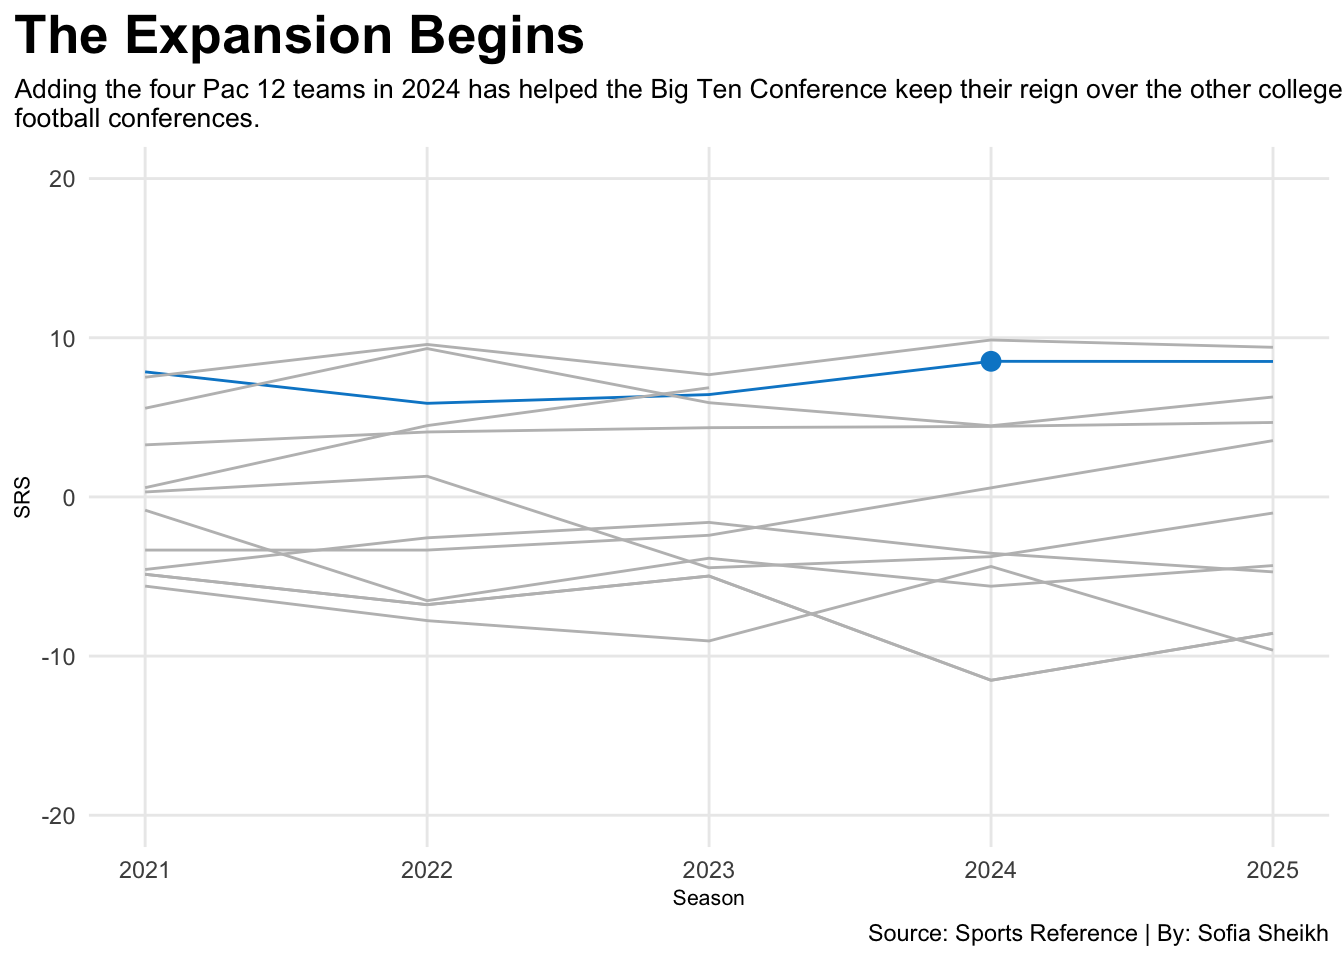
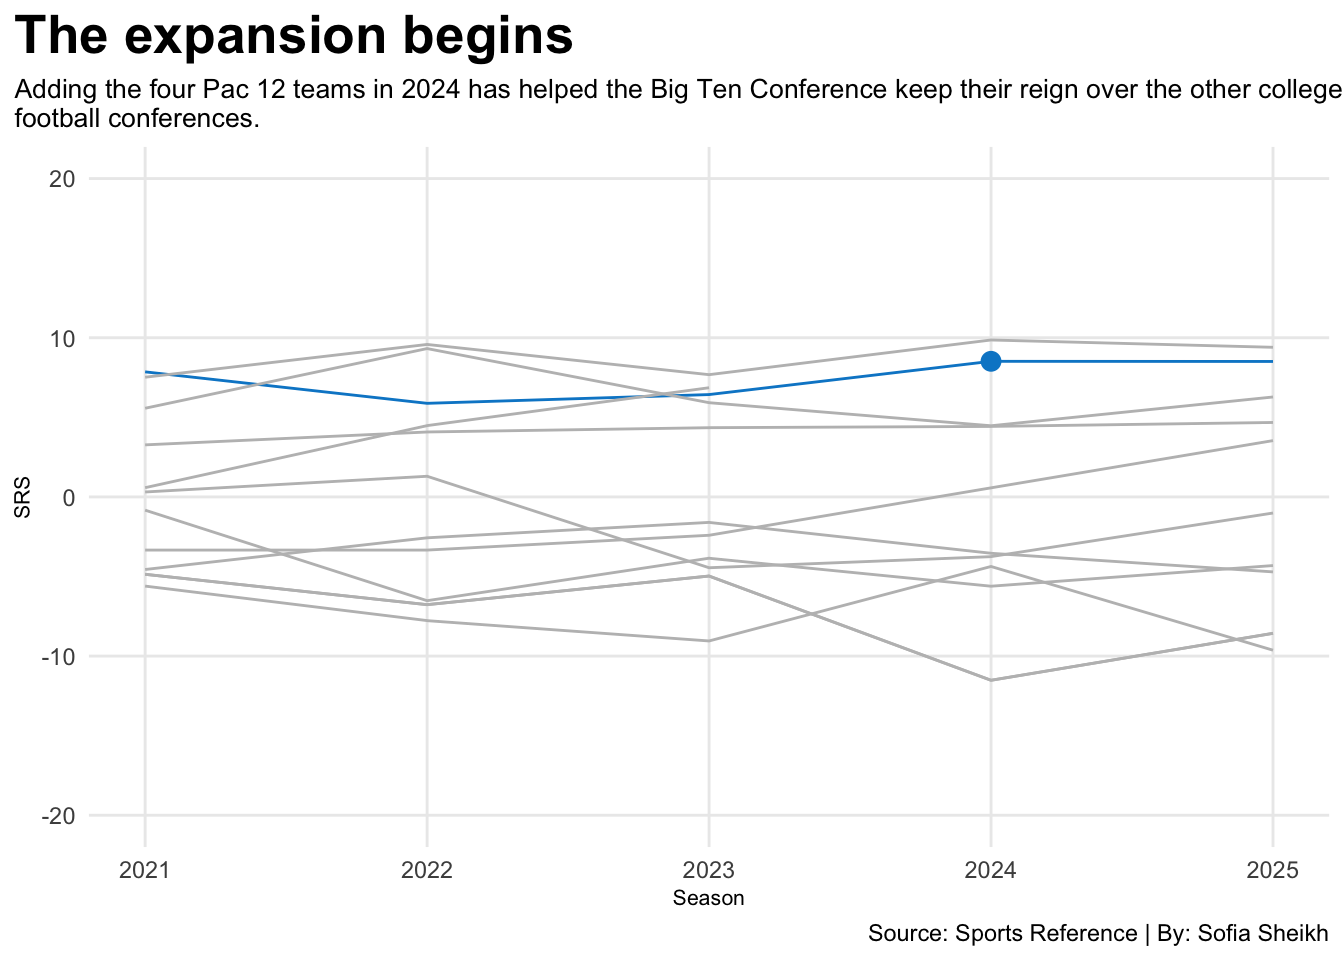
fgfgfbgbf

Changed region(s): [[0.0938, 0.0, 0.4375, 0.0625]]

diff --git a/posts/was.adding.four.teams.a.good.move.for.the.big.ten/index.html b/posts/was.adding.four.teams.a.good.move.for.the.big.ten/index.html
@@ -238,7 +238,7 @@ pre > code.sourceCode > span > a:first-child::before { text-decoration: underlin
 <span id="cb1-45"><a href="#cb1-45" aria-hidden="true" tabindex="-1"></a>  <span class="fu">labs</span>(</span>
 <span id="cb1-46"><a href="#cb1-46" aria-hidden="true" tabindex="-1"></a>    <span class="at">x=</span><span class="st">"Season"</span>, </span>
 <span id="cb1-47"><a href="#cb1-47" aria-hidden="true" tabindex="-1"></a>    <span class="at">y=</span><span class="st">"SRS"</span>, </span>
-<span id="cb1-48"><a href="#cb1-48" aria-hidden="true" tabindex="-1"></a>    <span class="at">title=</span><span class="st">"The Expansion Begins"</span>, </span>
+<span id="cb1-48"><a href="#cb1-48" aria-hidden="true" tabindex="-1"></a>    <span class="at">title=</span><span class="st">"The expansion begins"</span>, </span>
 <span id="cb1-49"><a href="#cb1-49" aria-hidden="true" tabindex="-1"></a>    <span class="at">subtitle=</span><span class="st">"Adding the four Pac 12 teams in 2024 has helped the Big Ten Conference keep their reign over the other college</span><span class="sc">\n</span><span class="st">football conferences."</span>,</span>
 <span id="cb1-50"><a href="#cb1-50" aria-hidden="true" tabindex="-1"></a>    <span class="at">caption=</span><span class="st">"Source: Sports Reference | By: Sofia Sheikh"</span></span>
 <span id="cb1-51"><a href="#cb1-51" aria-hidden="true" tabindex="-1"></a>    ) <span class="sc">+</span></span>
@@ -403,23 +403,23 @@ pre > code.sourceCode > span > a:first-child::before { text-decoration: underlin
 <span id="cb3-74"><a href="#cb3-74" aria-hidden="true" tabindex="-1"></a>    )</span></code></pre></div><button title="Copy to Clipboard" class="code-copy-button"><i class="bi"></i></button></div>
 </details>
 <div class="cell-output-display">
-<div id="rteiqgncan" style="padding-left:0px;padding-right:0px;padding-top:10px;padding-bottom:10px;overflow-x:auto;overflow-y:auto;width:auto;height:auto;">
-<style>#rteiqgncan table {
+<div id="rfkpzcahsd" style="padding-left:0px;padding-right:0px;padding-top:10px;padding-bottom:10px;overflow-x:auto;overflow-y:auto;width:auto;height:auto;">
+<style>#rfkpzcahsd table {
   font-family: system-ui, 'Segoe UI', Roboto, Helvetica, Arial, sans-serif, 'Apple Color Emoji', 'Segoe UI Emoji', 'Segoe UI Symbol', 'Noto Color Emoji';
   -webkit-font-smoothing: antialiased;
   -moz-osx-font-smoothing: grayscale;
 }
 
-#rteiqgncan thead, #rteiqgncan tbody, #rteiqgncan tfoot, #rteiqgncan tr, #rteiqgncan td, #rteiqgncan th {
+#rfkpzcahsd thead, #rfkpzcahsd tbody, #rfkpzcahsd tfoot, #rfkpzcahsd tr, #rfkpzcahsd td, #rfkpzcahsd th {
   border-style: none;
 }
 
-#rteiqgncan p {
+#rfkpzcahsd p {
   margin: 0;
   padding: 0;
 }
 
-#rteiqgncan .gt_table {
+#rfkpzcahsd .gt_table {
   display: table;
   border-collapse: collapse;
   line-height: normal;
@@ -445,12 +445,12 @@ pre > code.sourceCode > span > a:first-child::before { text-decoration: underlin
   border-left-color: #D3D3D3;
 }
 
-#rteiqgncan .gt_caption {
+#rfkpzcahsd .gt_caption {
   padding-top: 4px;
   padding-bottom: 4px;
 }
 
-#rteiqgncan .gt_title {
+#rfkpzcahsd .gt_title {
   color: #333333;
   font-size: 125%;
   font-weight: initial;
@@ -462,7 +462,7 @@ pre > code.sourceCode > span > a:first-child::before { text-decoration: underlin
   border-bottom-width: 0;
 }
 
-#rteiqgncan .gt_subtitle {
+#rfkpzcahsd .gt_subtitle {
   color: #333333;
   font-size: 85%;
   font-weight: initial;
@@ -474,7 +474,7 @@ pre > code.sourceCode > span > a:first-child::before { text-decoration: underlin
   border-top-width: 0;
 }
 
-#rteiqgncan .gt_heading {
+#rfkpzcahsd .gt_heading {
   background-color: #FFFFFF;
   text-align: center;
   border-bottom-color: #FFFFFF;
@@ -486,13 +486,13 @@ pre > code.sourceCode > span > a:first-child::before { text-decoration: underlin
   border-right-color: #D3D3D3;
 }
 
-#rteiqgncan .gt_bottom_border {
+#rfkpzcahsd .gt_bottom_border {
   border-bottom-style: none;
   border-bottom-width: 2px;
   border-bottom-color: #D3D3D3;
 }
 
-#rteiqgncan .gt_col_headings {
+#rfkpzcahsd .gt_col_headings {
   border-top-style: none;
   border-top-width: 2px;
   border-top-color: #D3D3D3;
@@ -507,7 +507,7 @@ pre > code.sourceCode > span > a:first-child::before { text-decoration: underlin
   border-right-color: #D3D3D3;
 }
 
-#rteiqgncan .gt_col_heading {
+#rfkpzcahsd .gt_col_heading {
   color: #333333;
   background-color: #FFFFFF;
   font-size: 100%;
@@ -527,7 +527,7 @@ pre > code.sourceCode > span > a:first-child::before { text-decoration: underlin
   overflow-x: hidden;
 }
 
-#rteiqgncan .gt_column_spanner_outer {
+#rfkpzcahsd .gt_column_spanner_outer {
   color: #333333;
   background-color: #FFFFFF;
   font-size: 100%;
@@ -539,15 +539,15 @@ pre > code.sourceCode > span > a:first-child::before { text-decoration: underlin
   padding-right: 4px;
 }
 
-#rteiqgncan .gt_column_spanner_outer:first-child {
+#rfkpzcahsd .gt_column_spanner_outer:first-child {
   padding-left: 0;
 }
 
-#rteiqgncan .gt_column_spanner_outer:last-child {
+#rfkpzcahsd .gt_column_spanner_outer:last-child {
   padding-right: 0;
 }
 
-#rteiqgncan .gt_column_spanner {
+#rfkpzcahsd .gt_column_spanner {
   border-bottom-style: none;
   border-bottom-width: 2px;
   border-bottom-color: #D3D3D3;
@@ -559,11 +559,11 @@ pre > code.sourceCode > span > a:first-child::before { text-decoration: underlin
   width: 100%;
 }
 
-#rteiqgncan .gt_spanner_row {
+#rfkpzcahsd .gt_spanner_row {
   border-bottom-style: hidden;
 }
 
-#rteiqgncan .gt_group_heading {
+#rfkpzcahsd .gt_group_heading {
   padding-top: 8px;
   padding-bottom: 8px;
   padding-left: 5px;
@@ -589,7 +589,7 @@ pre > code.sourceCode > span > a:first-child::before { text-decoration: underlin
   text-align: left;
 }
 
-#rteiqgncan .gt_empty_group_heading {
+#rfkpzcahsd .gt_empty_group_heading {
   padding: 0.5px;
   color: #333333;
   background-color: #FFFFFF;
@@ -604,15 +604,15 @@ pre > code.sourceCode > span > a:first-child::before { text-decoration: underlin
   vertical-align: middle;
 }
 
-#rteiqgncan .gt_from_md > :first-child {
+#rfkpzcahsd .gt_from_md > :first-child {
   margin-top: 0;
 }
 
-#rteiqgncan .gt_from_md > :last-child {
+#rfkpzcahsd .gt_from_md > :last-child {
   margin-bottom: 0;
 }
 
-#rteiqgncan .gt_row {
+#rfkpzcahsd .gt_row {
   padding-top: 8px;
   padding-bottom: 8px;
   padding-left: 5px;
@@ -631,7 +631,7 @@ pre > code.sourceCode > span > a:first-child::before { text-decoration: underlin
   overflow-x: hidden;
 }
 
-#rteiqgncan .gt_stub {
+#rfkpzcahsd .gt_stub {
   color: #333333;
   background-color: #FFFFFF;
   font-size: 100%;
@@ -644,7 +644,7 @@ pre > code.sourceCode > span > a:first-child::before { text-decoration: underlin
   padding-right: 5px;
 }
 
-#rteiqgncan .gt_stub_row_group {
+#rfkpzcahsd .gt_stub_row_group {
   color: #333333;
   background-color: #FFFFFF;
   font-size: 100%;
@@ -658,15 +658,15 @@ pre > code.sourceCode > span > a:first-child::before { text-decoration: underlin
   vertical-align: top;
 }
 
-#rteiqgncan .gt_row_group_first td {
+#rfkpzcahsd .gt_row_group_first td {
   border-top-width: 2px;
 }
 
-#rteiqgncan .gt_row_group_first th {
+#rfkpzcahsd .gt_row_group_first th {
   border-top-width: 2px;
 }
 
-#rteiqgncan .gt_summary_row {
+#rfkpzcahsd .gt_summary_row {
   color: #333333;
   background-color: #FFFFFF;
   text-transform: inherit;
@@ -676,16 +676,16 @@ pre > code.sourceCode > span > a:first-child::before { text-decoration: underlin
   padding-right: 5px;
 }
 
-#rteiqgncan .gt_first_summary_row {
+#rfkpzcahsd .gt_first_summary_row {
   border-top-style: none;
   border-top-color: #D3D3D3;
 }
 
-#rteiqgncan .gt_first_summary_row.thick {
+#rfkpzcahsd .gt_first_summary_row.thick {
   border-top-width: 2px;
 }
 
-#rteiqgncan .gt_last_summary_row {
+#rfkpzcahsd .gt_last_summary_row {
   padding-top: 8px;
   padding-bottom: 8px;
   padding-left: 5px;
@@ -695,7 +695,7 @@ pre > code.sourceCode > span > a:first-child::before { text-decoration: underlin
   border-bottom-color: #D3D3D3;
 }
 
-#rteiqgncan .gt_grand_summary_row {
+#rfkpzcahsd .gt_grand_summary_row {
   color: #333333;
   background-color: #FFFFFF;
   text-transform: inherit;
@@ -705,7 +705,7 @@ pre > code.sourceCode > span > a:first-child::before { text-decoration: underlin
   padding-right: 5px;
 }
 
-#rteiqgncan .gt_first_grand_summary_row {
+#rfkpzcahsd .gt_first_grand_summary_row {
   padding-top: 8px;
   padding-bottom: 8px;
   padding-left: 5px;
@@ -715,7 +715,7 @@ pre > code.sourceCode > span > a:first-child::before { text-decoration: underlin
   border-top-color: #D3D3D3;
 }
 
-#rteiqgncan .gt_last_grand_summary_row_top {
+#rfkpzcahsd .gt_last_grand_summary_row_top {
   padding-top: 8px;
   padding-bottom: 8px;
   padding-left: 5px;
@@ -725,11 +725,11 @@ pre > code.sourceCode > span > a:first-child::before { text-decoration: underlin
   border-bottom-color: #D3D3D3;
 }
 
-#rteiqgncan .gt_striped {
+#rfkpzcahsd .gt_striped {
   background-color: rgba(128, 128, 128, 0.05);
 }
 
-#rteiqgncan .gt_table_body {
+#rfkpzcahsd .gt_table_body {
   border-top-style: none;
   border-top-width: 2px;
   border-top-color: #D3D3D3;
@@ -738,7 +738,7 @@ pre > code.sourceCode > span > a:first-child::before { text-decoration: underlin
   border-bottom-color: #D3D3D3;
 }
 
-#rteiqgncan .gt_footnotes {
+#rfkpzcahsd .gt_footnotes {
   color: #333333;
   background-color: #FFFFFF;
   border-bottom-style: none;
@@ -752,7 +752,7 @@ pre > code.sourceCode > span > a:first-child::before { text-decoration: underlin
   border-right-color: #D3D3D3;
 }
 
-#rteiqgncan .gt_footnote {
+#rfkpzcahsd .gt_footnote {
   margin: 0px;
   font-size: 90%;
   padding-top: 4px;
@@ -761,7 +761,7 @@ pre > code.sourceCode > span > a:first-child::before { text-decoration: underlin
   padding-right: 5px;
 }
 
-#rteiqgncan .gt_sourcenotes {
+#rfkpzcahsd .gt_sourcenotes {
   color: #333333;
   background-color: #FFFFFF;
   border-bottom-style: none;
@@ -775,7 +775,7 @@ pre > code.sourceCode > span > a:first-child::before { text-decoration: underlin
   border-right-color: #D3D3D3;
 }
 
-#rteiqgncan .gt_sourcenote {
+#rfkpzcahsd .gt_sourcenote {
   font-size: 90%;
   padding-top: 4px;
   padding-bottom: 4px;
@@ -783,72 +783,72 @@ pre > code.sourceCode > span > a:first-child::before { text-decoration: underlin
   padding-right: 5px;
 }
 
-#rteiqgncan .gt_left {
+#rfkpzcahsd .gt_left {
   text-align: left;
 }
 
-#rteiqgncan .gt_center {
+#rfkpzcahsd .gt_center {
   text-align: center;
 }
 
-#rteiqgncan .gt_right {
+#rfkpzcahsd .gt_right {
   text-align: right;
   font-variant-numeric: tabular-nums;
 }
 
-#rteiqgncan .gt_font_normal {
+#rfkpzcahsd .gt_font_normal {
   font-weight: normal;
 }
 
-#rteiqgncan .gt_font_bold {
+#rfkpzcahsd .gt_font_bold {
   font-weight: bold;
 }
 
-#rteiqgncan .gt_font_italic {
+#rfkpzcahsd .gt_font_italic {
   font-style: italic;
 }
 
-#rteiqgncan .gt_super {
+#rfkpzcahsd .gt_super {
   font-size: 65%;
 }
 
-#rteiqgncan .gt_footnote_marks {
+#rfkpzcahsd .gt_footnote_marks {
   font-size: 75%;
   vertical-align: 0.4em;
   position: initial;
 }
 
-#rteiqgncan .gt_asterisk {
+#rfkpzcahsd .gt_asterisk {
   font-size: 100%;
   vertical-align: 0;
 }
 
-#rteiqgncan .gt_indent_1 {
+#rfkpzcahsd .gt_indent_1 {
   text-indent: 5px;
 }
 
-#rteiqgncan .gt_indent_2 {
+#rfkpzcahsd .gt_indent_2 {
   text-indent: 10px;
 }
 
-#rteiqgncan .gt_indent_3 {
+#rfkpzcahsd .gt_indent_3 {
   text-indent: 15px;
 }
 
-#rteiqgncan .gt_indent_4 {
+#rfkpzcahsd .gt_indent_4 {
   text-indent: 20px;
 }
 
-#rteiqgncan .gt_indent_5 {
+#rfkpzcahsd .gt_indent_5 {
   text-indent: 25px;
 }
 
-#rteiqgncan .katex-display {
+#rfkpzcahsd .katex-display {
   display: inline-flex !important;
   margin-bottom: 0.75em !important;
 }
 
-#rteiqgncan div.Reactable > div.rt-table > div.rt-thead > div.rt-tr.rt-tr-group-header > div.rt-th-group:after {
+#rfkpzcahsd div.Reactable > div.rt-table > div.rt-thead > div.rt-tr.rt-tr-group-header > div.rt-th-group:after {
   height: 0px !important;
 }
 </style>

diff --git a/index.html b/index.html
@@ -199,7 +199,7 @@ window.Quarto = {
 
 <div class="quarto-listing quarto-listing-container-default" id="listing-listing">
 <div class="list quarto-listing-default">
-<div class="quarto-post image-right" data-index="0" data-categories="Zm9vdGJhbGwlMkNjb2xsZWdlJTJDc3BvcnRz" data-listing-date-sort="1777006800000" data-listing-file-modified-sort="1776992869550" data-listing-date-modified-sort="NaN" data-listing-reading-time-sort="8" data-listing-word-count-sort="1486">
+<div class="quarto-post image-right" data-index="0" data-categories="Zm9vdGJhbGwlMkNjb2xsZWdlJTJDc3BvcnRz" data-listing-date-sort="1777006800000" data-listing-file-modified-sort="1776993332622" data-listing-date-modified-sort="NaN" data-listing-reading-time-sort="8" data-listing-word-count-sort="1486">
 <div class="thumbnail"><a href="./posts/was.adding.four.teams.a.good.move.for.the.big.ten/index.html" class="no-external">
 
 <img loading="lazy" src="./posts/was.adding.four.teams.a.good.move.for.the.big.ten/image.png" class="thumbnail-image">
